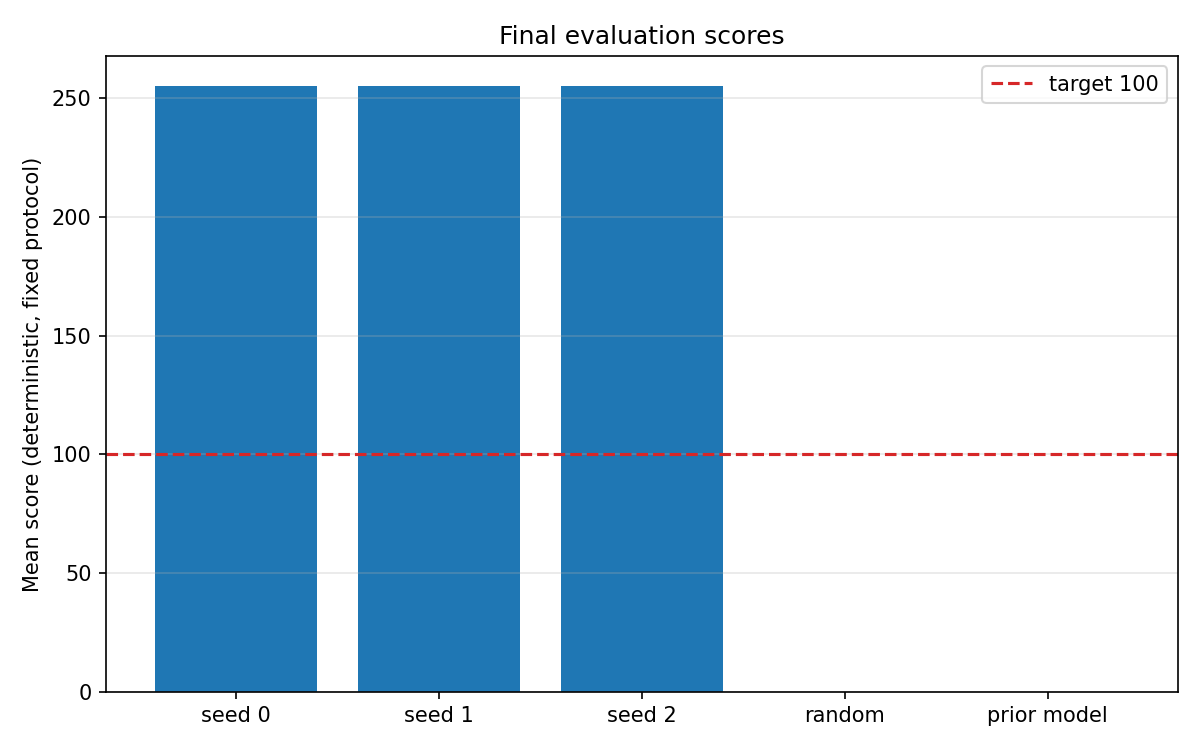
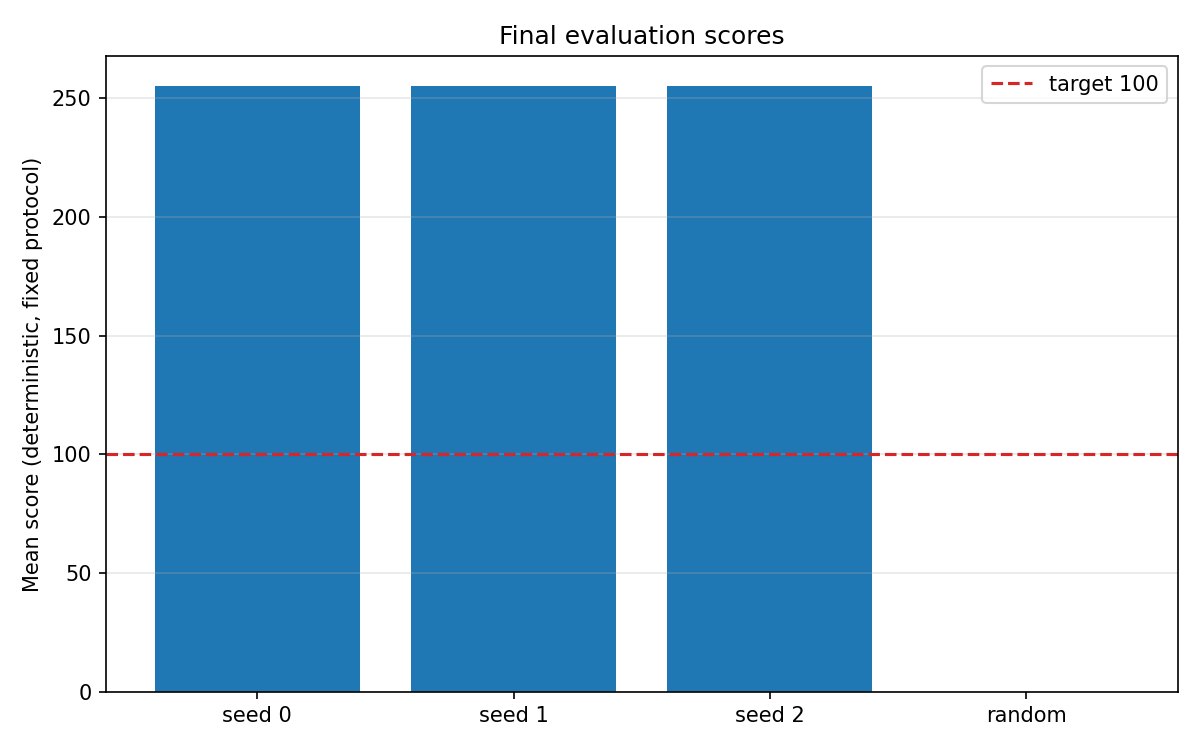
docs: make the random policy the sole baseline

diff --git a/src/reinforced_flapper/cli.py b/src/reinforced_flapper/cli.py
@@ -172,7 +172,7 @@ def cmd_plot(args: argparse.Namespace) -> None:
         if row.kind == "train" and any(row.run_id == d.name for d in run_dirs)
     ]
     if rows:
-        baselines = {"random": 0.0, "prior model": 0.0}
+        baselines = {"random": 0.0}
         scores_path = plot_final_scores(
             rows, baselines, out_dir / "final_scores.png", target=args.target
         )

diff --git a/journal/001-starting-line.md b/journal/001-starting-line.md
@@ -6,29 +6,30 @@ Raw data: results/baseline_pre_refactor.jsonl
 
 ## What was measured
 
-The existing trained model (models/dqn_flappybird.zip) and a random policy,
-evaluated against the unmodified environment. 100 episodes per condition,
-episode seeds 10000..10099, step cap 10000, headless (SDL dummy drivers).
+The baseline for this project is the random policy, evaluated against the
+unmodified environment: 100 episodes, episode seeds 10000..10099, step cap
+10000, headless (SDL dummy drivers).
 
 | Policy | Score mean | Score median | Score max | Length mean |
 |---|---|---|---|---|
-| Existing model (deterministic) | 0.00 | 0 | 0 | 31 steps |
-| Existing model (eps=0.05 greedy) | 0.01 | 0 | 1 | 44 steps |
 | Random (uniform flap 50%) | 0.00 | 0 | 0 | 72 steps |
+
+Every later claim is measured against this number under the same protocol.
+
+## Why there is no model baseline
+
+A model file found on disk (a local, untracked models/dqn_flappybird.zip)
+was evaluated as a candidate starting line and scored 0.00 deterministic
+with a 31-step mean episode length, exactly the free-fall time from spawn
+to floor. Inspection showed it was saved at num_timesteps=2000 with
+learning_starts=1000, and a grid sweep over the observation space found it
+selects flap in 3 of 3645 states: a never-flap smoke-test artifact, not a
+trained agent. It was excluded as a baseline; the random policy is the
+reference.
 
 ## Lesson
 
-The shipped model is not a trained agent. Inspection shows it was saved at
-num_timesteps=2000 with learning_starts=1000, so it saw at most ~1000
-gradient steps of signal. A grid sweep over the observation space shows it
-selects flap in 3 of 3645 states: it is a never-flap policy. Its 31-step
-mean episode length is exactly the free-fall time from spawn to floor.
-
-Two takeaways:
-
-1. Never assume a committed artifact is what its name claims. "Trained
-   model" meant "smoke-test output". Measuring first was the right call.
-2. The bar for "beats the prior model" is trivially low (any agent that
-   passes one pipe clears it). The meaningful targets are the random
-   baseline (also 0.0) and the fixed solved threshold, which must be
-   defined independently of both.
+Never assume an artifact is what its name claims. "Trained model" meant
+"smoke-test output". Measuring first kept the project from comparing
+against an assumption, and the meaningful targets became the random
+baseline and a fixed solved threshold defined before training (ADR 0005).

diff --git a/docs/summary.md b/docs/summary.md
@@ -9,9 +9,7 @@ The trained agent plays Flappy Bird perfectly as far as the measurement
 ceiling allows: on all 3 training seeds, the best checkpoint passed 255
 pipes on every one of 100 fixed evaluation episodes without dying (every
 episode hit the 10000-step cap). The random baseline scores 0.00 on the
-same episodes. The model that shipped with the repo also scores 0.00; it
-turned out to be a 2000-step smoke-test artifact that never flaps, so the
-measured starting line was zero, not a working agent. The solved target
+same episodes. The solved target
 (mean and median score >= 100 on every seed) is met with maximal margin.
 
 ## Method
@@ -48,7 +46,6 @@ measured starting line was zero, not a working agent. The solved target
 | dqn_final seed 1 | 255.00 | 255 | 255 | 255 | 100/100 |
 | dqn_final seed 2 | 255.00 | 255 | 255 | 255 | 100/100 |
 | random | 0.00 | 0 | 0 | 0 | 0/100 |
-| prior shipped model | 0.00 | 0 | 0 | 0 | 0/100 |
 
 Stochastic evaluation of the same checkpoints scores 13.2 to 18.1: with
 1 percent random actions, a single ill-timed flap is fatal, so this
@@ -59,9 +56,9 @@ single process, laptop CPU, headless.
 
 ## What was learned
 
-1. Measure the starting line first. The committed "trained model" was a
-   never-flap policy; without measuring it, every later comparison would
-   have rested on an assumption (journal/001).
+1. Measure the starting line first. A model artifact found on disk turned
+   out to be a never-flap smoke-test output and was excluded as a
+   baseline; the random policy is the reference (journal/001).
 2. Headless equivalence is a measurable claim. Palettized sprites lose
    their alpha silently without conversion, which would have changed
    collision masks; the fix was verified mask-by-mask and then end-to-end
@@ -92,4 +89,4 @@ reproducible for a given model.
   artifact, not committed; regenerate with `uv run flapper video`).
 - runs/<run_id>/: per-run config, structured log, monitor.csv, learning
   curve, best and final models, final_eval.json.
-- docs/adr/: seven decision records. journal/: four lessons.
+- docs/adr/: seven decision records. journal/: five lessons.

diff --git a/docs/adr/0005-evaluation-protocol-and-solved-definition.md b/docs/adr/0005-evaluation-protocol-and-solved-definition.md
@@ -8,8 +8,7 @@ Status: accepted
 There is no oracle: "never dies" is the ceiling and it is reachable, so an
 uncapped episode never ends. Headline claims need a fixed protocol, a step
 cap, multiple seeds, and a target defined before results exist. The
-measured starting line is score 0.0 for both the prior model and the
-random baseline.
+measured starting line is the random baseline at score 0.0.
 
 ## Decision
 
@@ -28,8 +27,8 @@ Solved is defined as: for every one of 3 training seeds (0, 1, 2), the
 best checkpoint's deterministic evaluation has mean score >= 100 and
 median score >= 100 under this protocol.
 
-Reference points: random policy 0.0 mean, prior shipped model 0.0 mean
-(both measured, ledger and journal entry 001).
+Reference point: random policy 0.0 mean (measured, ledger and journal
+entry 001).
 
 ## Rationale
 

diff --git a/journal/002-refactor-without-moving-the-physics.md b/journal/002-refactor-without-moving-the-physics.md
@@ -7,8 +7,8 @@ Git SHA: 7cb7921 (pipeline rebuild)
 
 The whole pipeline was rebuilt (typed config, ledger, headless env,
 fixed protocol) while keeping the game dynamics bit-for-bit identical.
-The proof is paired evaluation: the prior model and the random baseline
-were re-run under the new environment with the same episode seeds, and
+The proof is paired evaluation: the random baseline and the untrained
+model artifact from entry 001 were re-run under the new environment with the same episode seeds, and
 produced identical per-episode score lists and identical mean lengths
 (31.0 deterministic, 72.0 random) to the pre-refactor measurement.
 

diff --git a/README.md b/README.md
@@ -2,8 +2,7 @@
 
 [![CI](https://github.com/tctibbs/flappy-bird-rl/actions/workflows/ci.yml/badge.svg)](https://github.com/tctibbs/flappy-bird-rl/actions/workflows/ci.yml)
 
-A DQN agent that learns to play Flappy Bird perfectly, and a clean,
-reproducible pipeline around it.
+A DQN agent that learns to play Flappy Bird.
 
 <p align="center">
   <img src="docs/media/demo.gif" alt="Trained agent playing Flappy Bird" width="216">

diff --git a/journal/004-solved-on-all-three-seeds.md b/journal/004-solved-on-all-three-seeds.md
@@ -14,8 +14,7 @@ mean = median = min = max = 255. The solved target (mean and median >= 100
 per seed, ADR 0005) is met at the measurement ceiling on all seeds.
 Wall clock was 277 to 315 seconds per seed on a laptop CPU.
 
-Reference points, same protocol: random policy 0.00, prior shipped model
-0.00 (deterministic).
+Reference point, same protocol: random policy 0.00.
 
 ## Observations
 

diff --git a/docs/adr/0001-keep-dqn-on-stable-baselines3.md b/docs/adr/0001-keep-dqn-on-stable-baselines3.md
@@ -23,8 +23,6 @@ Keep DQN on Stable-Baselines3, with hyperparameters as typed config fields.
 - DQN is off-policy and replay-based, which suits this cheap, serial,
   headless environment. PPO's main advantage (stable on-policy updates
   with many parallel envs) buys little here.
-- The prior model in the repo is a DQN, so the starting line and the new
-  result stay directly comparable.
 
 ## Consequences
 

diff --git a/docs/adr/0007-bounded-reward-scale.md b/docs/adr/0007-bounded-reward-scale.md
@@ -28,7 +28,7 @@ reward_death = -1.0. This is a scale change only: the optimal policy
   rewards to [-1, 1]. The screening result reproduced this textbook
   effect cleanly.
 - Game score remains the evaluation metric, so comparisons against the
-  random baseline and the prior model are unaffected by the reward change.
+  random baseline are unaffected by the reward change.
 
 ## Consequences
 